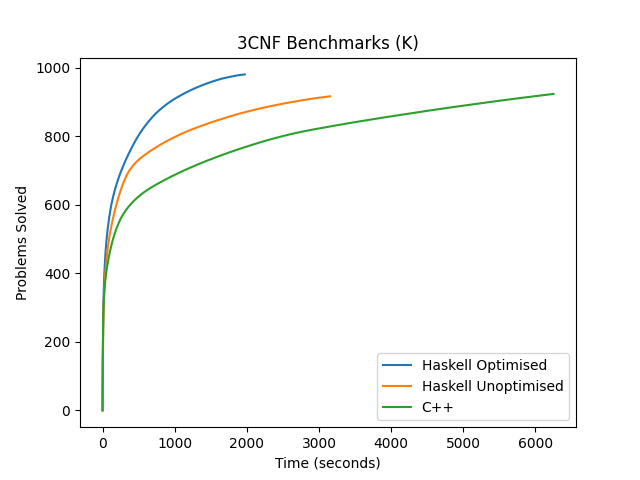
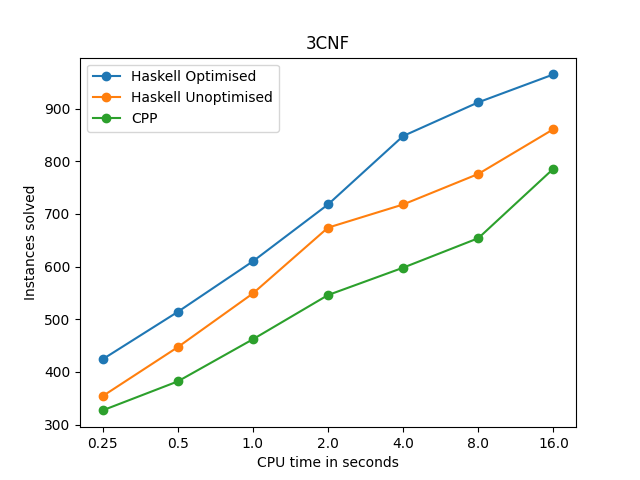
experiment

diff --git a/Experiment/analysis.py b/Experiment/analysis.py
@@ -1,0 +1,77 @@
+import os
+import numpy as np
+import pandas as pd
+from matplotlib import pyplot as plt
+
+
+total_CPP_time = np.array([])
+total_haskell_time = np.array([])
+total_haskell_optim_time = np.array([])
+total_CPP_result = np.array([])
+total_haskell_result = np.array([])
+total_haskell_optim_result = np.array([])
+total_file_path = np.array([])
+
+
+for file in os.listdir(os.getcwd()+"/Experiment/data"):
+    # iterate each benchmark 
+    if file.endswith(".csv"):
+        file = os.getcwd()+"/Experiment/data/"+file
+        benchmark = os.path.basename(file)[:-4]
+
+        df = pd.read_csv(file)
+        CPP_time = df['CPP_time']
+        haskell_time = df["haskell_time"]
+        haskell_optim_time = df["haskell_optim_time"]
+        CPP_result = df["CPP_result"]
+        haskell_result = df["haskell_result"]
+        haskell_optim_result = df["haskell_optim_result"]
+        file_path = df["file_path"]
+        # add to total 
+        total_CPP_time = np.append(total_CPP_time, CPP_time)
+        total_haskell_time = np.append(total_haskell_time, haskell_time)
+        total_haskell_optim_time = np.append(total_haskell_optim_time, haskell_optim_time)
+        total_CPP_result = np.append(total_CPP_result, CPP_result)
+        total_haskell_result = np.append(total_haskell_result, haskell_result)
+        total_haskell_optim_result = np.append(total_haskell_optim_result, haskell_optim_result)
+        total_file_path = np.append(total_file_path, file_path)
+
+        # find exception and timeout in each prover
+        cpp_exception_index = np.where(CPP_result == "exception")[0]
+        cpp_timeout_index = np.where(CPP_result == "timeout")[0]
+        haskell_exception_index = np.where(haskell_result == "exception")[0]
+        haskell_timeout_index = np.where(haskell_result == "timeout")[0]
+        haskell_optim_exception_index = np.where(haskell_optim_result == "exception")[0]
+        haskell_optim_timeout_index = np.where(haskell_optim_result == "timeout")[0]
+
+
+        # statistic result
+        print(benchmark)
+        print("total: ", file_path.size)
+        print("CPP           ","timeout",cpp_timeout_index.size,"exception",cpp_exception_index.size)
+        print("Haskell       ","timeout",haskell_timeout_index.size,"exception",haskell_exception_index.size)
+        print("Haskell optim ","timeout",haskell_optim_timeout_index.size,"exception",haskell_optim_exception_index.size)
+        print("______________________________________________")
+
+        # visual result
+        x = np.array([0.25,0.5,1,2,4,8,16])
+        values = range(len(x))
+
+        cppy = np.array([((CPP_time<v)&(CPP_result!="exception")).sum() for v in x])
+        hy = np.array([(haskell_time<v).sum() for v in x])
+        hoy = np.array([(haskell_optim_time<v).sum() for v in x])
+        
+        plt.figure()
+        plt.plot(values,hoy,marker="o",label="Haskell Optimised")
+        plt.plot(values,hy,marker="o",label="Haskell Unoptimised")
+        plt.plot(values,cppy,marker="o",label="CPP")
+        plt.xlabel("CPU time in seconds")
+        plt.ylabel("Instances solved")
+        plt.title(benchmark)
+        plt.xticks(values,x)
+        plt.legend()
+        plt.savefig("Experiment/data/"+"K" + benchmark +".png")
+
+
+
+
